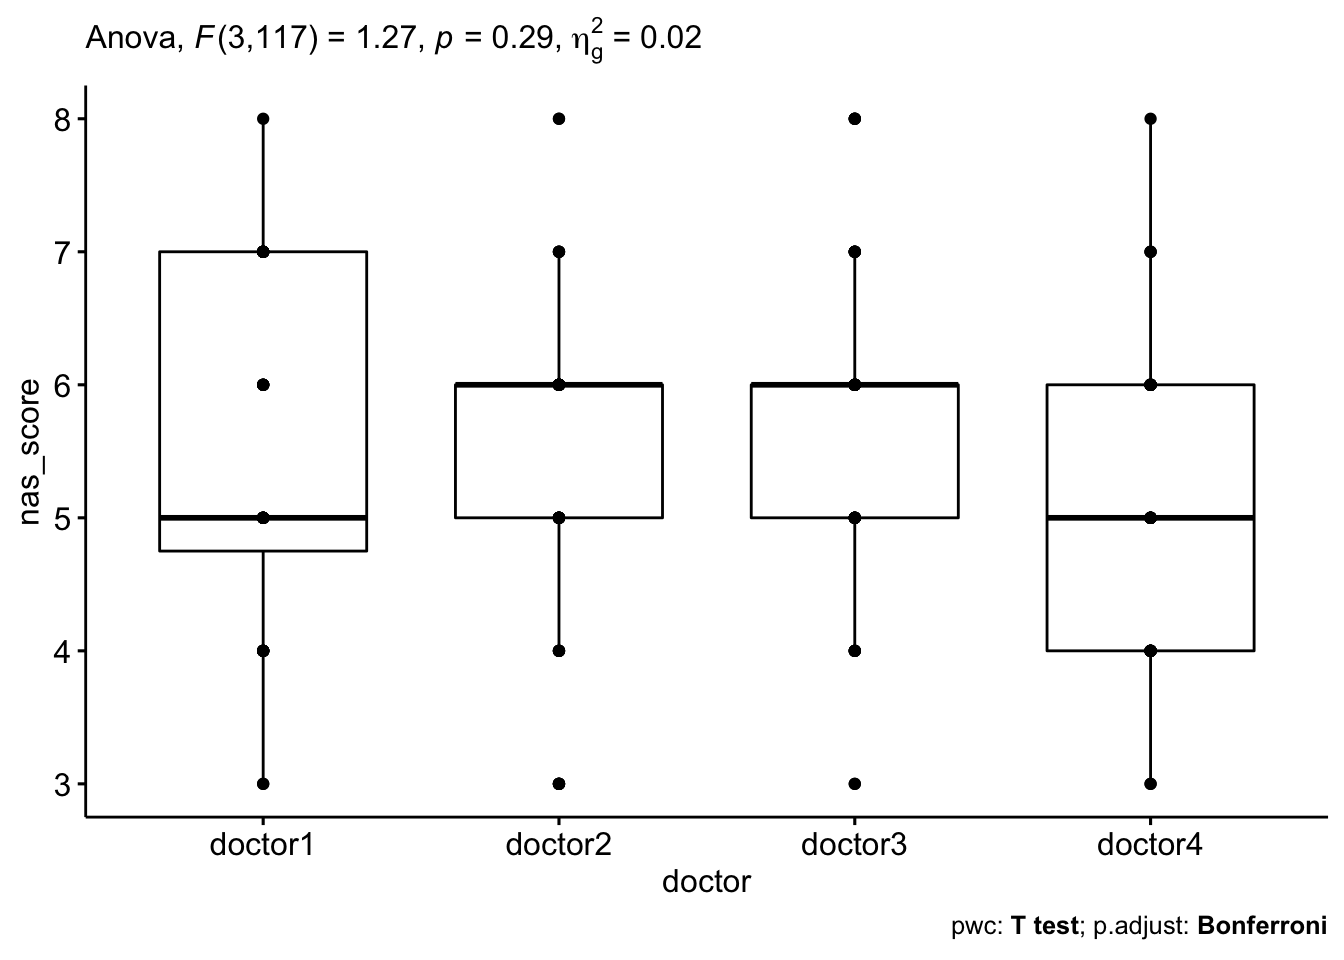
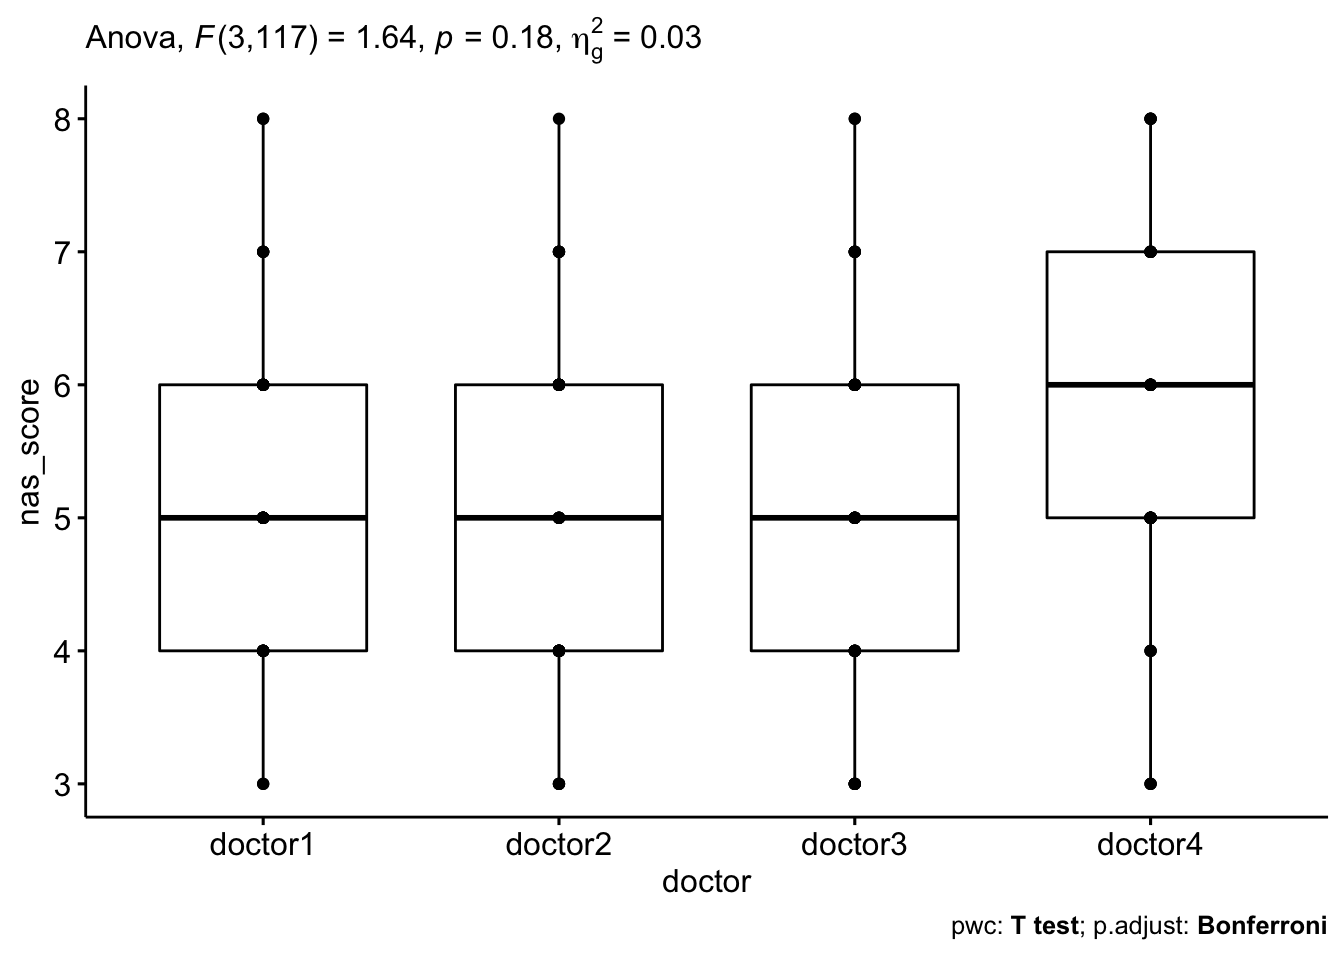
small typo

diff --git a/NAS.html b/NAS.html
@@ -364,26 +364,18 @@ mydata_long &lt;- mydata %&gt;%
 <pre class="r"><code>mydata_long %&gt;%
   group_by(doctor) %&gt;%
   identify_outliers(nas_score)</code></pre>
-<pre><code>## # A tibble: 7 x 5
-##   doctor  id    nas_score is.outlier is.extreme
-##   &lt;fct&gt;   &lt;fct&gt;     &lt;dbl&gt; &lt;lgl&gt;      &lt;lgl&gt;     
-## 1 doctor2 19            3 TRUE       FALSE     
-## 2 doctor2 27            3 TRUE       FALSE     
-## 3 doctor2 28            3 TRUE       FALSE     
-## 4 doctor2 29            8 TRUE       FALSE     
-## 5 doctor3 9             3 TRUE       FALSE     
-## 6 doctor3 17            8 TRUE       FALSE     
-## 7 doctor3 31            8 TRUE       FALSE</code></pre>
+<pre><code>## [1] doctor     id         nas_score  is.outlier is.extreme
+## &lt;0 rows&gt; (or 0-length row.names)</code></pre>
 <pre class="r"><code>mydata_long %&gt;%
   group_by(doctor) %&gt;%
   shapiro_test(nas_score)</code></pre>
 <pre><code>## # A tibble: 4 x 4
 ##   doctor  variable  statistic       p
 ##   &lt;fct&gt;   &lt;chr&gt;         &lt;dbl&gt;   &lt;dbl&gt;
-## 1 doctor1 nas_score     0.906 0.00286
-## 2 doctor2 nas_score     0.916 0.00597
-## 3 doctor3 nas_score     0.930 0.0156 
-## 4 doctor4 nas_score     0.928 0.0144</code></pre>
+## 1 doctor1 nas_score     0.933 0.0201 
+## 2 doctor2 nas_score     0.917 0.00631
+## 3 doctor3 nas_score     0.933 0.0201 
+## 4 doctor4 nas_score     0.934 0.0211</code></pre>
 </div>
 <div id="test" class="section level4">
 <h4>Test</h4>
@@ -392,7 +384,7 @@ get_anova_table(res.aov)</code></pre>
 <pre><code>## ANOVA Table (type III tests)
 ## 
 ##   Effect DFn DFd     F     p p&lt;.05   ges
-## 1 doctor   3 117 1.266 0.289       0.024</code></pre>
+## 1 doctor   3 117 1.642 0.183       0.031</code></pre>
 <pre class="r"><code>### pairwise comparisons
 pwc &lt;- mydata_long %&gt;%
   pairwise_t_test(
@@ -403,12 +395,12 @@ pwc</code></pre>
 <pre><code>## # A tibble: 6 x 10
 ##   .y.       group1  group2     n1    n2 statistic    df     p p.adj p.adj.signif
 ## * &lt;chr&gt;     &lt;chr&gt;   &lt;chr&gt;   &lt;int&gt; &lt;int&gt;     &lt;dbl&gt; &lt;dbl&gt; &lt;dbl&gt; &lt;dbl&gt; &lt;chr&gt;       
-## 1 nas_score doctor1 doctor2    40    40     0.446    39 0.658 1     ns          
-## 2 nas_score doctor1 doctor3    40    40    -0.567    39 0.574 1     ns          
-## 3 nas_score doctor1 doctor4    40    40     1.07     39 0.291 1     ns          
-## 4 nas_score doctor2 doctor3    40    40    -1.16     39 0.254 1     ns          
-## 5 nas_score doctor2 doctor4    40    40     0.942    39 0.352 1     ns          
-## 6 nas_score doctor3 doctor4    40    40     2.13     39 0.04  0.238 ns</code></pre>
+## 1 nas_score doctor1 doctor2    40    40     0.450    39 0.655 1     ns          
+## 2 nas_score doctor1 doctor3    40    40     0.265    39 0.792 1     ns          
+## 3 nas_score doctor1 doctor4    40    40    -1.71     39 0.095 0.570 ns          
+## 4 nas_score doctor2 doctor3    40    40    -0.235    39 0.815 1     ns          
+## 5 nas_score doctor2 doctor4    40    40    -2.13     39 0.039 0.236 ns          
+## 6 nas_score doctor3 doctor4    40    40    -1.75     39 0.088 0.525 ns</code></pre>
 </div>
 </div>
 <div id="visualization" class="section level3">

diff --git a/Mount_Sinai_Project.html b/Mount_Sinai_Project.html
@@ -399,7 +399,7 @@ div.tocify {
 <h5>Quality Control</h5>
 <p>Quality control was first performed to avoid technical noise, which may obscure the biological information of downstream analysis.</p>
 <ul>
-<li><p>Remove cells that had a total counts of RNA molecules smaller than 2000, a total number of unique genes smaller than 1000, and the cells with percent of mitochondria genes larger than 15% were removed.</p></li>
+<li><p>Remove cells that had a total counts of RNA molecules smaller than 2000, a total number of unique genes smaller than 1000, and with percent of mitochondria genes larger than 15%.</p></li>
 <li><p>Remove mitochondrial genes and genes that shared ribosomal protein name according the RGD Genome database</p></li>
 </ul>
 </div>
